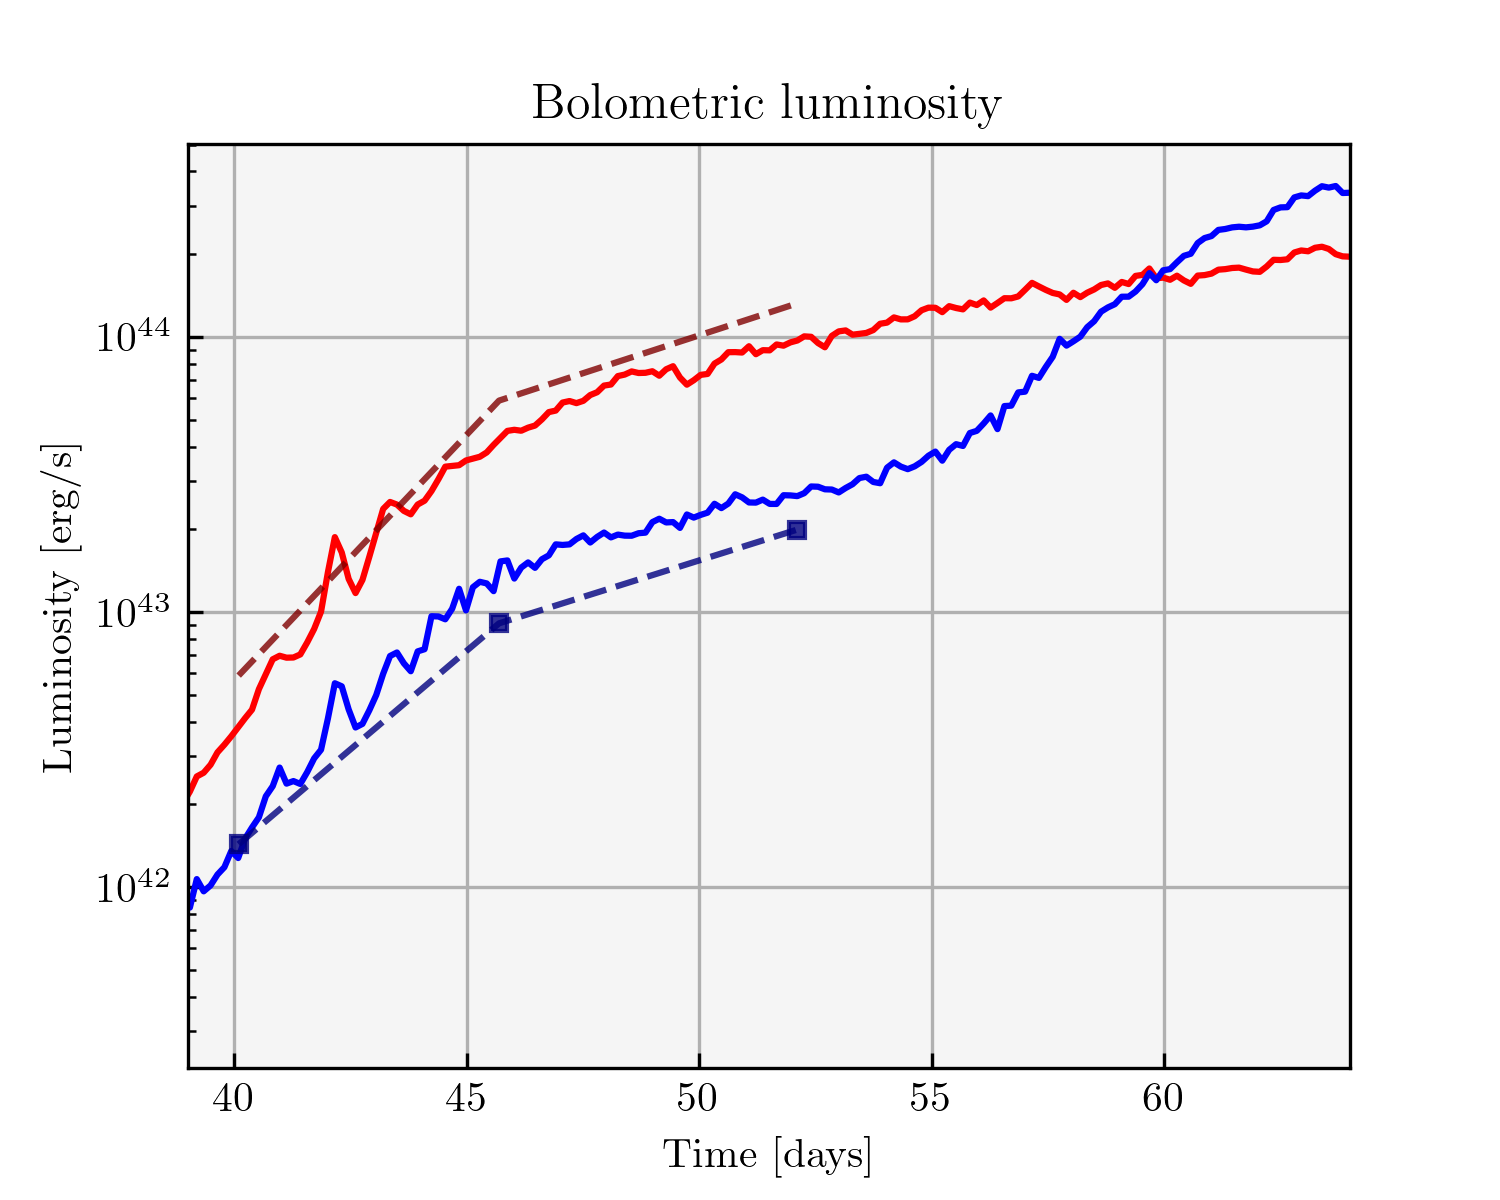
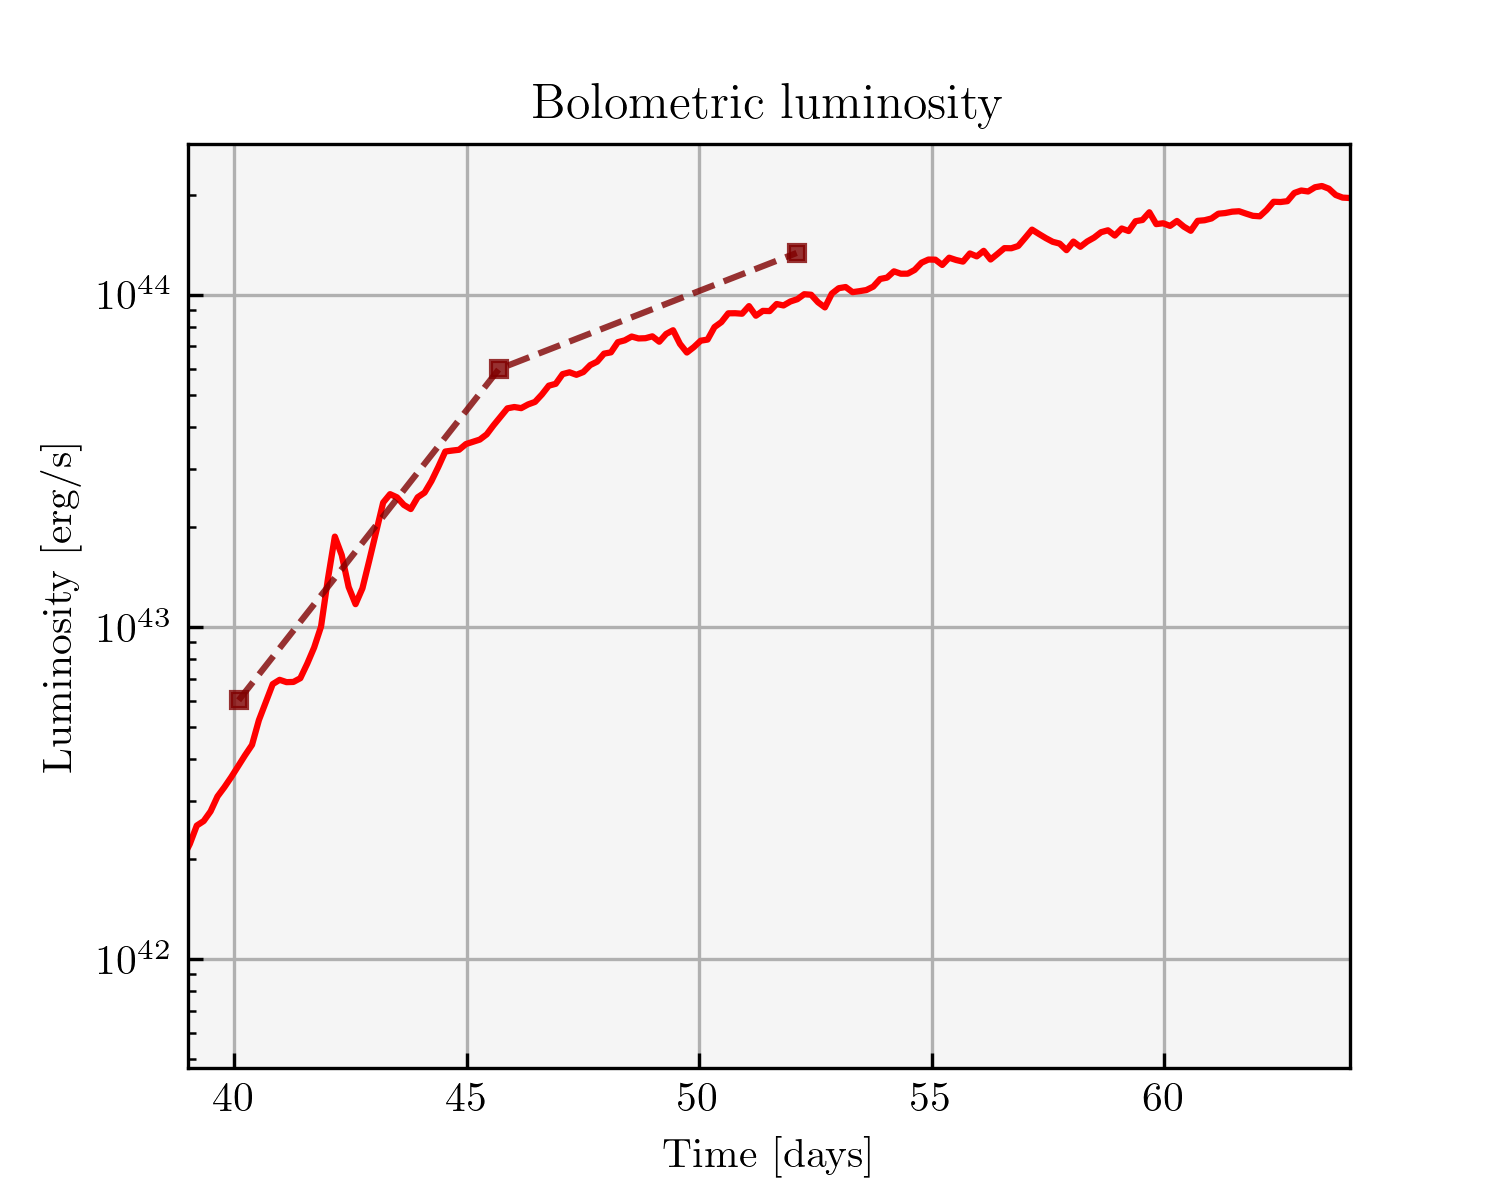
things as they should be

diff --git a/src/Luminosity/red_tree_Larsen.py b/src/Luminosity/red_tree_Larsen.py
@@ -24,13 +24,14 @@ import h5py
 import healpy as hp
 from scipy.spatial import KDTree
 from datetime import datetime
+import math
 
 # Custom Imports
 import src.Utilities.prelude as c
 import src.Utilities.selectors as s
-from src.Calculators.ray_forest import find_sph_coord, ray_maker_forest, ray_finder
+from src.Calculators.ray_forest import ray_maker_forest, ray_finder
 from src.Luminosity.special_radii_tree import get_specialr
-from astropy.coordinates import spherical_to_cartesian, cartesian_to_spherical
+from astropy.coordinates import cartesian_to_spherical, spherical_to_cartesian
 
 #%%
 ##
@@ -38,7 +39,8 @@ from astropy.coordinates import spherical_to_cartesian, cartesian_to_spherical
 ##
 ###
 
-def find_neighbours(snap, m, check, tree_index_photo, dist_neigh):
+
+def outside_photo(snap, m, check, tree_index_photo, dist_neigh):
     """
      For every ray, find the cells that are at +- fixed distance from photosphere.
      fixed distance = 2 * dimension of simulation cell at the photosphere
@@ -80,18 +82,13 @@ def find_neighbours(snap, m, check, tree_index_photo, dist_neigh):
     Y = np.load(pre + snap + '/CMy_' + snap + '.npy')
     Z = np.load(pre + snap + '/CMz_' + snap + '.npy')
     T = np.load(pre + snap + '/T_' + snap + '.npy')
-    Den = np.load(pre + snap + '/Den_' + snap + '.npy')
     Rad = np.load(pre + snap + '/Rad_' + snap + '.npy')
+    Den = np.load(pre + snap + '/Den_' + snap + '.npy')
     
     # convert in CGS
     Rad *= Den 
     Rad *= c.en_den_converter
     Den *= c.den_converter
-
-    # make a tree
-    sim_value = [X, Y, Z] 
-    sim_value = np.transpose(sim_value) # shape (number_points, 3). Need it for the tree.
-    sim_tree = KDTree(sim_value)
 
     # store data of R_{ph} (lenght in Rsol)
     tree_index_photo = [int(x) for x in tree_index_photo]
@@ -105,17 +102,24 @@ def find_neighbours(snap, m, check, tree_index_photo, dist_neigh):
 
     # convert to cartesian and query: BETTER TO USE OUR FIND_SPH_COORDINATE??
     x_low, y_low, z_low  = spherical_to_cartesian(r_low, theta_obs, phi_obs)
+    # x_low += Rt
     x_high, y_high, z_high  = spherical_to_cartesian(r_high, theta_obs, phi_obs)
-    x_high += Rt # CHECK THIS!!!!!
+    # x_high += Rt 
     idx_low = np.zeros(len(tree_index_photo))
     idx_high = np.zeros(len(tree_index_photo))
     grad_r = np.zeros(len(tree_index_photo))
     magnitude = np.zeros(len(tree_index_photo))
+
+    # make a tree with pericenter as origin
+    # X -= Rt
+    sim_value = [X, Y, Z] 
+    sim_value = np.transpose(sim_value) # shape (number_points, 3). Need it for the tree.
+    sim_tree = KDTree(sim_value)
    
     # Find inner and outer neighbours
     for i in range(len(x_low)):
-        _, idx_l = sim_tree.query([x_low[i], y_low[i], z_low[i]])
-        _, idx_h = sim_tree.query([x_high[i], y_high[i], z_high[i]])
+        _, idx_l = sim_tree.query([x_low[i]+Rt, y_low[i], z_low[i]])
+        _, idx_h = sim_tree.query([x_high[i]+Rt, y_high[i], z_high[i]])
         idx_low[i] = idx_l
         idx_high[i] = idx_h
         xyz_low = np.array([X[idx_l], Y[idx_l], Z[idx_l]])
@@ -147,41 +151,41 @@ def find_neighbours(snap, m, check, tree_index_photo, dist_neigh):
     grad_Er = deltaE * grad_r
     magnitude *= np.abs(deltaE)
     
-    
     return grad_Er, magnitude, energy_high, T_high, den_high
 
     
-def flux_calculator(grad_E, magnitude, selected_energy, 
-                    selected_temperature, selected_density, opacity_kind):
+def flux_calculator(gradr_E, magnitude, outside_energy, 
+                    outside_temperature, outside_density, opacity_kind):
     """
     Get the flux for every observer.
 
-    Parameters
+    Parameters [CGS]
     ----------
-    grad_E: array.
-            Energy gradient for every ray at photosphere. 
+    gradr_E: array.
+            Radial component of the gradient of (radiation) energy density 
+            across the photosphere (for every ray). 
     magnitude: array.
-                Magnitude of grad_Er (CGS)
-    selected_energy: array.
-            Energy for every ray in a cell outside photosphere. 
-    selected_temperature: array.
-            Temperature for every ray in a cell outside photosphere. 
-    selected_density: array.
-            Density for every ray in a cell outside photosphere. 
+               Magnitude of the gradient of energy density. 
+    outside_energy: array.
+            Energy in the cell outside photosphere (for every ray). 
+    outside_temperature: array.
+            Temperature in the cell outside photosphere (for every ray). 
+    outside_density: array.
+            Density in the cell outside photosphere (for every ray). 
     opacity_kind: str.
             Choose the opacity.
         
-    Returns
+    Returns [CGS]
     -------
     f: array
         Flux at every ray.
     """
-    f = np.zeros(len(grad_E))
+    f = np.zeros(len(gradr_E))
     zero_count = 0
    
     # Ensure we can interpolate
-    rho_low = np.exp(-45)
     if opacity_kind == 'LTE':
+        rho_low = np.exp(-45)
         Tmax = np.exp(17.87)  # 5.77e+07 K
         Tmin = np.exp(8.666)  # 5.8e+03 K
         from src.Opacity.LTE_opacity import opacity # NB: ln == False by default
@@ -191,11 +195,12 @@ def flux_calculator(grad_E, magnitude, selected_energy,
         Tmin = 316
         from src.Opacity.cloudy_opacity import old_opacity as opacity
 
-    for i in range(len(selected_energy)):
-        Energy = selected_energy[i]
-        
-        Temperature = selected_temperature[i]
-        Density = selected_density[i]
+    # compute flux at every ray
+    for i in range(len(outside_energy)):
+        Energy = outside_energy[i]
+        Temperature = outside_temperature[i]
+        Density = outside_density[i]
+        mag = magnitude[i]
 
         # If here is nothing, light continues
         # if np.logical_and(m!=6, Density < rho_low):
@@ -213,66 +218,72 @@ def flux_calculator(grad_E, magnitude, selected_energy,
         
         # T too high => scattering
         if Temperature > Tmax:
-            Tscatter = Tmax
-            k_ross = opacity(Tscatter, Density, 'scattering')
+            k_ross = opacity(Tmax, Density, 'scattering')
         else:    
             # Get Opacity, NOTE: Breaks Numba
-            k_ross = opacity(Temperature, Density, 'red')
+            k_ross = opacity(Temperature, Density, 'rosseland') # CGS
         
-        # k_ross *= c.Rsol_to_cm
-        D = c.c / np.sqrt((3*k_ross)**2 + (magnitude[i]/Energy)**2)
+        # Eq.(8) Steinberg&Stone22
+        D = c.c / np.sqrt((3*k_ross)**2 + (mag/Energy)**2)
     
-        Flux =  - D * grad_E[i]
+        Flux =  - D * gradr_E[i]
         
         f[i] = Flux
-    
+
+    print('Tot zeros:', zero_count)
     return f
 
 def fld_luminosity(snap, m, check, thetas, phis, stops, num, opacity_kind):
     """
     Gives bolometric L 
     """
+    # Make rays and find the photosphere
     rays = ray_maker_forest(snap, m, check, thetas, phis, 
                             stops, num, opacity_kind)   
-    _, _, rays_photo, rays_index_photo, tree_index_photo = get_specialr(rays.T, rays.den, rays.radii, 
-                                                            rays.tree_indexes, opacity_kind, select = 'photo')
+    _, _, rays_photo, rays_index_photo, tree_index_photo = get_specialr(rays.T, rays.den, 
+                                                            rays.radii, rays.tree_indexes, 
+                                                            opacity_kind, select = 'photo') # CGS
     
     dim_ph = np.zeros(len(rays_index_photo))
     for j in range(len(rays_index_photo)):
         find_index_cell = int(rays_index_photo[j])
         vol_ph = rays.vol[j][find_index_cell]
-        dim_ph[j] = (3 * vol_ph /(4 * np.pi))**(1/3) #in solar units
-    dist_neigh = 2 * dim_ph #solar units
+        dim_ph[j] = (3 * vol_ph /(4 * np.pi))**(1/3) 
+    dist_neigh = 2 * dim_ph # solar units
     # dist_neigh *= Rsol_to_cm #convert in CGS
 
     # Find the cell outside the photosphere and save its quantities
-    grad_E, magnitude, energy_high, T_high, den_high  = find_neighbours(snap, m, check,
-                                                                        tree_index_photo, dist_neigh)
+    grad_E, magnitude, energy_high, T_high, den_high  = outside_photo(snap, m, check,
+                                                                    tree_index_photo, dist_neigh)
 
-    # Calculate Flux and see how it looks
+    # Calculate the flux 
     flux = flux_calculator(grad_E, magnitude, energy_high, 
                            T_high, den_high, opacity_kind)
 
     # Calculate luminosity 
     lum = np.zeros(len(flux))
-    zero_count = 0
+    nan_count = 0
     neg_count = 0
     for i in range(len(flux)):
-        lum_nodiff = 4 * np.pi * c.c * energy_high[i] * rays_photo[i]**2
-        # Turn to luminosity
+        lum_nodiff = 4 * np.pi * rays_photo[i]**2 * c.c * energy_high[i] 
+        # Discard negative fluxes
         if flux[i] < 0:
             neg_count += 1
             lum_fld = 1e100
+        elif math.isnan(flux[i]):
+            nan_count += 1
+            lum_fld = 1e100
         else:
-            lum_fld = flux[i] * 4 * np.pi * rays_photo[i]**2
+            lum_fld = 4 * np.pi * rays_photo[i]**2 * flux[i] 
 
         lum[i] = min(lum_fld, lum_nodiff)
+        
     # Average in observers
     lum = np.sum(lum)/192
 
-    print('Tot zeros:', zero_count)
-    print('Negative: ', neg_count)      
-    print('Snap %i' %snap, ', Lum %.3e' %lum, '\n---------' )
+    print('Negative:', neg_count)
+    print('Nan:', nan_count)
+    print(f'Snap {snap}, Lum %.3e' %lum, '\n---------' )
     return lum
 #%%
 ##

diff --git a/src/Calculators/ray_forest.py b/src/Calculators/ray_forest.py
@@ -7,6 +7,8 @@ Created on Tue Oct 10 10:19:34 2023
 @author: paola, konstantinos
 
 """
+import sys
+sys.path.append('/Users/paolamartire/tde_comparison')
 
 # Vanilla
 import h5py
@@ -22,10 +24,10 @@ alice, plot = isalice()
 import src.Utilities.selectors as s
 #%% Constants & Converter
 
-def find_sph_coord(r, theta, phi):
-    x = r * np.sin(np.pi-theta) * np.cos(phi) #Elad has just theta
-    y = r * np.sin(np.pi-theta) * np.sin(phi)
-    z = r * np.cos(np.pi-theta)
+def find_cart_coord(r, theta, phi):
+    x = r * np.sin(theta) * np.cos(phi) 
+    y = r * np.sin(theta) * np.sin(phi)
+    z = r * np.cos(theta)
     return [x,y,z]
 
 # This just packs rays
@@ -76,6 +78,7 @@ def ray_maker_forest(fix, m, check, thetas, phis, stops, num, opacity):
     IE *= c.en_den_converter
     Den *= c.den_converter 
     
+    #X -= Rt # pericenter as origin 
     # make a tree
     sim_value = [X, Y, Z] 
     sim_value = np.transpose(sim_value) #array of dim (number_points, 3)
@@ -103,7 +106,7 @@ def ray_maker_forest(fix, m, check, thetas, phis, stops, num, opacity):
         
         for k in range(num-1):
             radius = radii[k]
-            queried_value = find_sph_coord(radius, thetas[j], phis[j])
+            queried_value = find_cart_coord(radius, thetas[j], phis[j])
             queried_value[0] += Rt #if you don't do -Rt before. Thus you consider the pericentre as origin
             _, idx = sim_tree.query(queried_value)
 
@@ -184,7 +187,7 @@ def ray_finder(filename):
         thetas[iobs] = theta
         phis[iobs] = phi
         observers.append( (theta, phi) )
-        xyz = find_sph_coord(1, theta, phi) # r=1 to be on the unit sphere
+        xyz = find_cart_coord(1, theta, phi) # r=1 to be on the unit sphere
         xyz_grid.append(xyz)
         mu_x = xyz[0]
         mu_y = xyz[1]

diff --git a/src/Luminosity/spectra_lte.py b/src/Luminosity/spectra_lte.py
@@ -23,7 +23,7 @@ from datetime import datetime
 
 # Chocolate Imports
 from src.Opacity.LTE_opacity import opacity
-from src.Calculators.ray_forest import find_sph_coord, ray_finder, ray_maker_forest
+from src.Calculators.ray_forest import ray_finder, ray_maker_forest
 from src.Luminosity.special_radii_tree import calc_specialr
 from src.Calculators.select_observers import select_observer 
 import src.Utilities.prelude as c
@@ -115,7 +115,7 @@ if __name__ == "__main__":
 
     # Choose BH 
     m = 4
-    check = 'S60ComptonHires'
+    check = 'fid'
     num = 1000
     snapshots, days = s.select_snap(m, check)
     opacity_kind = s.select_opacity(m)
@@ -206,7 +206,7 @@ if __name__ == "__main__":
                     pre_saving = '/home/s3745597/data1/TDE/tde_comparison/data/'
                 else:
                     pre_saving = 'data/blue/'
-            with open(f'{pre_saving}nLn_single_m{m}_{snap}_{num}.txt', 'a') as fselect:
+            with open(f'{pre_saving}nLn_single_m{m}_{snap}.txt', 'a') as fselect:
                 fselect.write(f'#snap {snap} L_tilde_n (theta, phi) = ({np.round(wanted_theta,4)},{np.round(wanted_phi,4)}) with num = {num} \n')
                 fselect.write(' '.join(map(str, lum_n_selected[wanted_index])) + '\n')
                 fselect.close()

diff --git a/src/Luminosity/special_radii_tree.py b/src/Luminosity/special_radii_tree.py
@@ -288,7 +288,7 @@ if __name__ == "__main__":
             pre_saving = 'data/'
 
         if photosphere:         
-            with open(f'{pre_saving}DYNspecial_radii_m{m}_box.txt', 'a') as file:
+            with open(f'{pre_saving}special_radii_m{m}_box.txt', 'a') as file:
                 file.write('# Run of ' + now + ' \n#t/t_fb\n')
                 file.write(' '.join(map(str, days)) + '\n')
                 file.write('# Photosphere arithmetic mean \n')
@@ -298,7 +298,7 @@ if __name__ == "__main__":
                 file.close()
                 
         if thermalisation:
-            with open(f'data/DYNspecial_radii_m{m}_box.txt', 'a') as file:
+            with open(f'data/special_radii_m{m}_box.txt', 'a') as file:
                 # file.write('# Run of ' + now + ' \n#t/t_fb\n')
                 # file.write(' '.join(map(str, days)) + '\n')
                 file.write('# Thermalisation radius arithmetic mean \n')

diff --git a/src/Plotting/Light-Curves/spectraplot.py b/src/Plotting/Light-Curves/spectraplot.py
@@ -9,8 +9,8 @@ plt.rc('ytick', labelsize = 15)
 import sys
 sys.path.append('/Users/paolamartire/tde_comparison')
 
-m = 6
-snap = 882
+m = 4
+snap = 394
 num = 1000
 opacity = 'cloudy'
 axis = 'temp'
@@ -39,7 +39,7 @@ n_end = frequencies(T_end)
 lamda = wavelength(n_array)
 
 # y axis 
-nL_tilde_n = np.loadtxt(f'data/blue/TESTnLn_single_m{m}_{snap}.txt')
+nL_tilde_n = np.loadtxt(f'data/blue/nLn_single_m{m}_{snap}.txt')
 
 
 if axis == 'freq':
@@ -90,7 +90,7 @@ ax2.axvline(7000, c = 'gold', label = 'visible')
 ax2.text(6000, y_highlim/5, 'visible', rotation = 90, fontsize = 10)
 ax1.legend()
 ax1.set_title(f'Spectra {snap} with {opacity} opacity')
-plt.savefig(f'Figs/TEST_NOstar_spectra{snap}_{num}.png')
+#plt.savefig(f'Figs/NOstar_spectra{snap}_{num}.png')
 plt.show()
 
 

diff --git a/src/Plotting/Light-Curves/comparison_with_elad.py b/src/Plotting/Light-Curves/comparison_with_elad.py
@@ -42,13 +42,13 @@ if plot_curves:
 
     # Elad Plot
     plt.plot(elad_time[0], elad_red_topolt, c = 'r')
-    plt.plot(elad_time[0],elad_blue_topolt, c = 'b')
+    # plt.plot(elad_time[0],elad_blue_topolt, c = 'b')
 
     # Our plot
     days40r = np.multiply(daysr, 40)
     days40b = np.multiply(daysb, 40)
-    plt.plot(days40b, b, '--s', c='navy', markersize = 4, alpha = 0.8)
-    plt.plot(days40r, r, '--', c='maroon', markersize = 4, alpha = 0.8)
+    # plt.plot(days40b, b, '--s', c='navy', markersize = 4, alpha = 0.8)
+    plt.plot(days40r, r, '--s', c='maroon', markersize = 4, alpha = 0.8)
 
     plt.yscale('log')
     plt.grid()

diff --git a/src/Utilities/selectors.py b/src/Utilities/selectors.py
@@ -33,9 +33,9 @@ def select_snap(m, check):
             snapshots = np.arange(210, 278 + 1)
     else:
         if m == 4 and check == 'fid':
-            snapshots = [394] #[233, 254, 263, 277 , 293, 308, 322]
+            snapshots = [322,394] #[233, 254, 263, 277 , 293, 308, 322]
         if m == 4 and check == 'S60ComptonHires':
-            snapshots = [322,394] 
+            snapshots = [] 
         if m == 6 and check == 'fid':
             snapshots = [844, 882, 925]#, 950, 1008] 
     for snap in snapshots:
